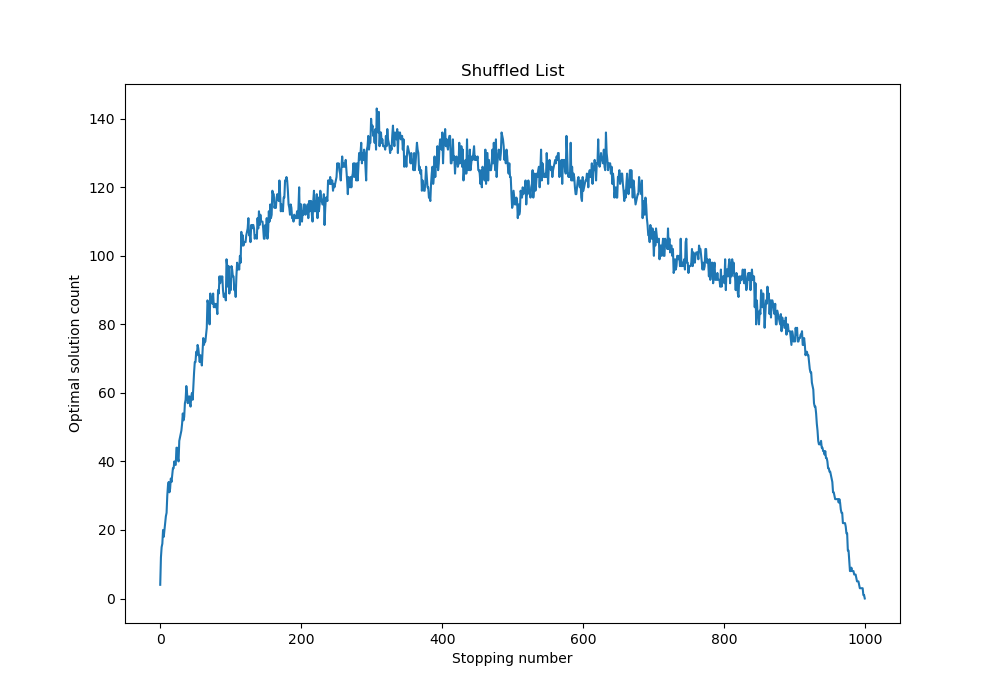
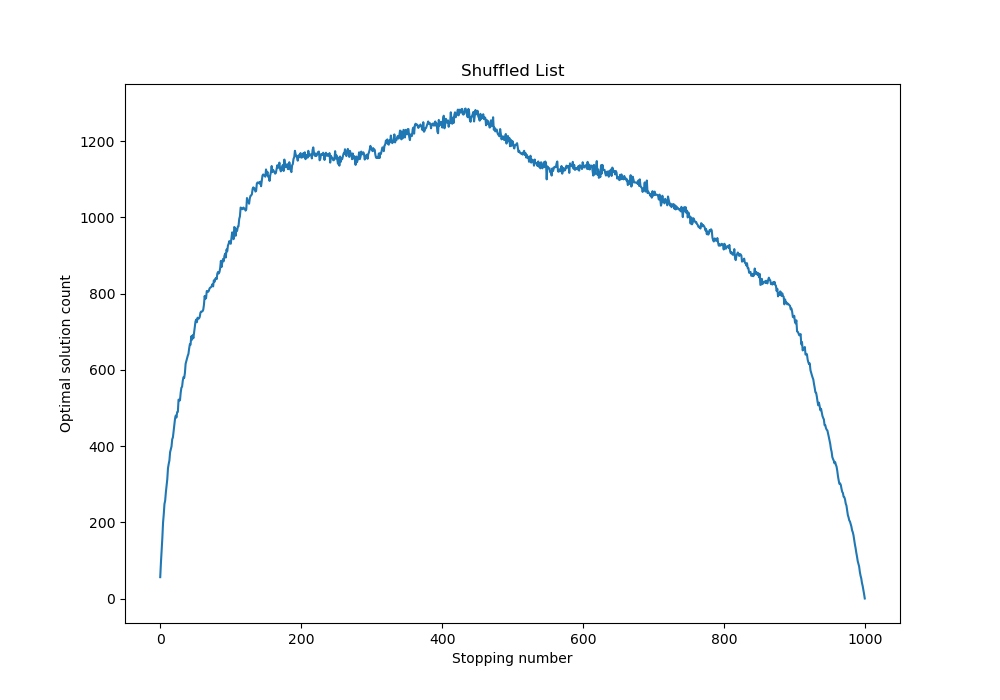
Finished problem 2 and just need to proofread README

diff --git a/Assn1/HW1_Grogan_Cody.py b/Assn1/HW1_Grogan_Cody.py
@@ -81,7 +81,7 @@ class OptimalStopper:
                 expectation = max(scenario[:stopNumber+1])
 
                 # Loop through the remaining data and stop on first number lower than expectation
-                for j in range(stopNumber, len(scenario) - 1):
+                for j in range(stopNumber, len(scenario)):
                     if scenario[j] > expectation:
                         Stops[stopNumber] += 1
                         break
@@ -109,8 +109,14 @@ class OptimalStopper:
                 # Get expected lowest number for stopNumber first elements
                 expectation = max(scenario[0:stopNumber+1]) - stopNumber
 
+                for j in range(stopNumber+1, len(scenario)):
+                    if scenario[j] - (j+1) > expectation:
+                        Stops[stopNumber] += 1
+                    elif np.random.random() < (j - stopNumber)/(len(scenario) - stopNumber - 1):
+                        expectation -= 1
+                
                 # If the optimal number was chosen add increment successful stop count
-                if scenario[stopNumber] == optimalNumber:
+                if scenario[stopNumber] - (stopNumber+1) == optimalNumber:
                     successfulStops[stopNumber] += 1
 
             return (Stops, successfulStops)
@@ -137,10 +143,10 @@ def getScenario2() -> list[int]:
 
 def problem1():
     elements = 1000
-    iterations = 1000
+    iterations = 10000
 
     solver = OptimalStopper(np.random.uniform, listCount=iterations) 
-    print("Optimal Stopping percentages:")
+    print("Problem 1 Optimal Stopping percentages:")
 
     # Uniform Distribution
     uniformStops, uniformOptimalStops = solver.getOptimalStopping(solver.getRandomList)
@@ -182,18 +188,29 @@ def problem1():
     ax.set_xlabel("Stopping number")
     ax.set_ylabel("Optimal solution count")
     fig.savefig("Figures/DataSet2.png")
+    
+     # Dataset 2 Total Stops
+    fig, ax = plt.subplots(figsize=(10,7))
+    ax.plot(range(elements), data2Stops)
+    ax.set_title("Data Set 2 Total Stops")
+    ax.set_xlabel("Stopping number")
+    ax.set_ylabel("Optimal solution count")
+    fig.savefig("Figures/DataSet2TotalStops.png")
+    
 
 
 def problem2():
-    iterations = 1000
-    elements = 1000
+    iterations = 10000
+    elements = 100
     solver = OptimalStopper(np.random.uniform, stopper="maxBenefit", numberElements=elements, listCount=iterations, numRange=(1, 99))
+    
+    print("Problem 2 Optimal Stopping Percentages:")    
 
     uniformStops, uniformOptimalStops = solver.getOptimalStopping(solver.getRandomList)
 
-    print(f"Uniform: {np.argmax(uniformOptimalStops) / elements:.2f}")
+    print(f"Uniform: {(np.argmax(uniformOptimalStops)+1) / elements:.2f}")
     fig, ax = plt.subplots(figsize=(10,7))
-    ax.plot(range(elements), uniformOptimalStops)
+    ax.plot(range(1,elements+1), uniformOptimalStops)
     ax.set_title("Uniform Distribution")
     ax.set_xlabel("Stopping number")
     ax.set_ylabel("Optimal solution count")
@@ -201,9 +218,9 @@ def problem2():
 
     normalStops, normalOptimalStops = solver.getOptimalStopping(solver.getNormalList)
 
-    print(f"Normal: {np.argmax(normalOptimalStops) / elements:.2f}")
+    print(f"Normal: {(np.argmax(normalOptimalStops)+1) / elements:.2f}")
     fig, ax = plt.subplots(figsize=(10,7))
-    ax.plot(range(elements), normalOptimalStops)
+    ax.plot(range(1,elements+1), normalOptimalStops)
     ax.set_title("Normal Distribution")
     ax.set_xlabel("Stopping number")
     ax.set_ylabel("Optimal solution count")
@@ -212,7 +229,7 @@ def problem2():
 
 if __name__ == "__main__":
     
-    #problem1()
+    problem1()
 
     problem2()
     

diff --git a/Assn1/README.md b/Assn1/README.md
@@ -1,38 +1,52 @@
+# Runnning Code
+		To run the code all that needs to be done is run the HWK file. The main function then calls problem1 and problem2. The only difference between problem 1 and 2 is the stopping algorithm run on each list. For problem 1 the vanilla function is used, and problem 2 uses the max benefit function. The get optimal stop takes a callable which produces the lists so the numbers in the list are generated from the function it is given.
+		Running the code produces 7 graphs:
+		- Problem 1
+			- Uniform Distribution from 0-99
+			- Shuffled list (list containing 0-9999 in the regular problem)
+			- Scenario 1
+			- Scenario 2
+			- Scenario 2 All Stops
+		- Problem 2
+			- Uniform Distribution (1-99)
+			- Normal Distribution (1-99)
+
 
 # Problem 1
 
-	For the first problem I used what is essentially the vanilla stopping algorithm with a slight addition.
-	This addition essentially randomly lowers the expectation of the stopper as it gets closer to the end of the list.
-	I accomplish this by generating a random number and only decrementing the expectation if it is smaller than the percentage of the list left to select from. This allows the algorithm to pick the correct solution if the optimal solution occurs early in the list for uniform distributions. However this has an adverse effect on randomly shuffled lists as this document will show.
-
-## Runnning
-		To run the code all that needs to be done is run the HWK file. The main function then calls problem1 
-		which runs the stopper on 4 data sets:
-
-		- Uniform Distribution from 0-99
-		- Shuffled list (list containing 0-9999 in the regular problem)
-		- Scenario 1
-		- Scenario 2
+	For the first problem I used what is essentially the vanilla stopping algorithm with a slight addition. This addition essentially randomly lowers the expectation of the stopper as it gets closer to the end of the list. I accomplish this by generating a random number and only decrementing the expectation if it is larger than the percentage of the list left to select from. This allows the algorithm to pick the correct solution if the optimal solution occurs early in the list for uniform distributions. However this has an adverse effect on randomly shuffled lists as this document will show.
 
 ## Results
-	This section shows the results from problem one. The results include a optimal stopping number and a graph showing the number
-	of optimal stops at each index.
+
+This section shows the results from problem one. The results include a optimal stopping number and a graph showing the number of optimal stops at each index.
 
 ### Uniform
 
 <img src="Figures/Uniform.png" width="500"/>
 
-The output from the code shows the optimal stopping point of the uniform distribution with the vanilla stopping algorithm of 11 %. This makes sense because if the list is populated 0 to n numbers then all of the numbers are likely to occur in the first n elements. This means the optimal solution is likely to be in the n first elements quite early in the list and thus the stopper should stop early to avoid the optimal number being the expectation.
+Stop %: 13
+
+Stop % Probability: 43%
+
+The output from the code shows the optimal stopping point of the uniform distribution with the vanilla stopping algorithm of 13%. This makes sense because if the list is populated 0 to n numbers then all of the numbers are likely to occur in the first n elements. This means the optimal solution is likely to be in the n first elements quite early in the list and thus the stopper should stop early to avoid the optimal number being the expectation.
 
 ### Shuffled List
 
 <img src="Figures/Shuffled.png" width="500"/>
 
-This graph shows the problem as outlined in the slides with a number only occuring once in the list. The code ouputs a optimal stop of 31% of the length of the list. This is sufficiently close to the 36.8 % number given by the book. The reason why it is not the exact number is due to the fall through condition for the uniform numbers. In the shuffled list, the no number is the same, so the likelyhood of a number being greater than the expectation is fairly high as their are more options. The fallthrough condition reduces the effectiveness of the shuffled list there is a substantially higher chance that reducing the expectation will cause it to pick a non-optimal solution.
+Stop %: 43%
+
+Stop % Probability: 12%
+
+This graph shows the problem as outlined in the slides with a number only occuring once in the list. The code ouputs a optimal stop of 43% of the length of the list. This is sufficiently close to the 36.8 % number given by the book. The reason why it is not the exact number is due to the fall through condition for the uniform numbers. In the shuffled list, no number is the same, so the likelyhood of a number being greater than the expectation is fairly high as their are more options. The fallthrough condition reduces the effectiveness of the shuffled list because there is a substantially higher chance that reducing the expectation will cause it to pick a non-optimal solution. However, without the fall throuhg condition, the algorithm produces the expected 37% and 37%.
 
 ### Scenario 1
 
 <img src="Figures/DataSet1.png" width="500"/>
+
+Stop %: N/A (cant pick the best without more runs)
+
+Stop % Probability: N/A
 
 This graph shows the same result of Uniform graph but has significantly less resolution because the algorithm was run on a single list. As mentioned before, the likelyhood of the optimal solution occuring is much higher in a uniform distribution making the best stopping point early in the list.
 
@@ -40,12 +54,39 @@ This graph shows the same result of Uniform graph but has significantly less res
 
 <img src="Figures/DataSet2.png" width="500" />
 
+Stop %: N/A
+
+Stop % Probability: N/A
+
 This graph shows the downfall of using the vanilla stopping algorithm on a single list. The algorithm fails because the algorithm forms and expectation before it starts selecting stopping points. Meaning that if the optimal solution occurs early in the list the rule of stopping at 36.8 % will fail to choose the optimal solution.
 
+
+<img src="Figures/DataSet2TotalStops.png" width="500"/>
+
+However, when looking at the total stops graph, the fall through condition of reducing the expectation allows the algorithm to pick answers eventhough they may not be optimal. The fallthrough condition then prevents the algorithm from completely failing in the case that the optimal solution is found early in the list.
 
 
 # Problem 2
 
+For this problem I made a seperate stopping function the picks the value with the maximum benefit. The problem to be solved is how much exploration should be done before picking a candidate if rating candidates has a cost. For the optimal value, the algorithm selects the largest number in the list after subtracting its index. For the expectation, the best candidate is the highest number before stopping minus the stopping number. Then, stopping is the same as the vanilla stopping algorithm but finding a number - index that is higher than the expectation.
 
-		
+## Results
+
+<img src="Figures/Uniform_2.png" width="500" />
+
+Stop %: 1%
+
+Stop % Probability: 14%
+
+This graph shows the results of the algorithm on a uniform draw of 100 numbers from 1-99. As expected by the constraints of the problem, the optimal stopping percentage is 1%  and the odds of picking the optimal number is 12% as forming an expectation is costly. However, this is likely because the cost of passing up a number is 1% of the total reward. This then explains the optimal stopping percentage because forming a better expectation reduces the potential reward in the future.
+
+<img src="Figures/Normal.png" width="500" />
+
+Stop %: 1%
+
+Stop % Probability: 13.5%
+
+The graph above shows the max benefit algorithm running on a set of 100 numbers generated by a normal distribution with a mean of 50 and std Dev of 10. I found the optimal stopping percentage is 1% with a probability of 10%. The percent success rate is likely lower because the likelyhood of a high number like 99 is very unlikely. As a result of this, there is a higher probability of a high number occuring later in the list that is still the best. This is reflected in the graph because the number of succesful stops drops off slightly slower than the uniform graph.
+
+
 
